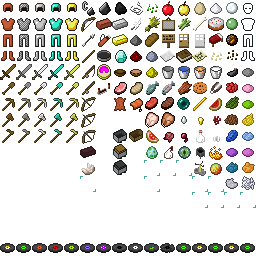
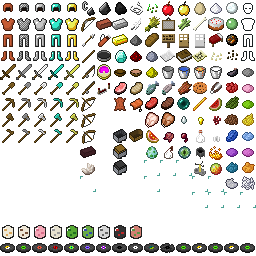
Add creative spawn eggs for all mobs

Changed region(s): [[0.0, 0.875, 0.5625, 0.9375]]

diff --git a/src/world/item/Item.cpp b/src/world/item/Item.cpp
@@ -148,6 +148,16 @@ Item* Item::beef_cooked = NULL;
 Item* Item::chicken_raw = NULL;
 Item* Item::chicken_cooked = NULL;
 
+Item* Item::spawnEggChicken = NULL;
+Item* Item::spawnEggCow = NULL;
+Item* Item::spawnEggPig = NULL;
+Item* Item::spawnEggSheep = NULL;
+Item* Item::spawnEggCreeper = NULL;
+Item* Item::spawnEggZombie = NULL;
+Item* Item::spawnEggSkeleton = NULL;
+Item* Item::spawnEggSpider = NULL;
+Item* Item::spawnEggPigZombie = NULL;
+
 Item* Item::netherbrick = NULL;
 Item* Item::netherQuartz = NULL;
 
@@ -279,6 +289,18 @@ void Item::initItems() {
 	Item::beef_cooked = (new FoodItem(108, 8, /*FoodConstants.FOOD_SATURATION_GOOD,*/ true))->setIcon(10, 6)->setCategory(ItemCategory::FoodArmor)->setDescriptionId("beefCooked");
 	Item::chicken_raw = (new FoodItem(109, 2, /*FoodConstants.FOOD_SATURATION_LOW,*/ true))->setIcon(9, 7)->setCategory(ItemCategory::FoodArmor)->setDescriptionId("chickenRaw");
 	Item::chicken_cooked = (new FoodItem(110, 6, /*FoodConstants.FOOD_SATURATION_NORMAL,*/ true))->setIcon(10, 7)->setCategory(ItemCategory::FoodArmor)->setDescriptionId("chickenCooked");
+
+	// Keep these IDs in the unused item range immediately after the existing
+	// food items. The icon row is reserved for the spawn-egg sprites.
+	Item::spawnEggChicken = (new SpawnEggItem(111, MobTypes::Chicken))->setIcon(224)->setCategory(ItemCategory::Decorations)->setDescriptionId("spawnEggChicken");
+	Item::spawnEggCow = (new SpawnEggItem(112, MobTypes::Cow))->setIcon(225)->setCategory(ItemCategory::Decorations)->setDescriptionId("spawnEggCow");
+	Item::spawnEggPig = (new SpawnEggItem(113, MobTypes::Pig))->setIcon(226)->setCategory(ItemCategory::Decorations)->setDescriptionId("spawnEggPig");
+	Item::spawnEggSheep = (new SpawnEggItem(114, MobTypes::Sheep))->setIcon(227)->setCategory(ItemCategory::Decorations)->setDescriptionId("spawnEggSheep");
+	Item::spawnEggCreeper = (new SpawnEggItem(115, MobTypes::Creeper))->setIcon(228)->setCategory(ItemCategory::Decorations)->setDescriptionId("spawnEggCreeper");
+	Item::spawnEggZombie = (new SpawnEggItem(116, MobTypes::Zombie))->setIcon(229)->setCategory(ItemCategory::Decorations)->setDescriptionId("spawnEggZombie");
+	Item::spawnEggSkeleton = (new SpawnEggItem(117, MobTypes::Skeleton))->setIcon(230)->setCategory(ItemCategory::Decorations)->setDescriptionId("spawnEggSkeleton");
+	Item::spawnEggSpider = (new SpawnEggItem(118, MobTypes::Spider))->setIcon(231)->setCategory(ItemCategory::Decorations)->setDescriptionId("spawnEggSpider");
+	Item::spawnEggPigZombie = (new SpawnEggItem(119, MobTypes::PigZombie))->setIcon(232)->setCategory(ItemCategory::Decorations)->setDescriptionId("spawnEggPigZombie");
 
 	Item::netherbrick = (new Item(149))->setIcon(5, 9)->setDescriptionId("netherbrickItem")->setCategory(ItemCategory::Structures);
 	Item::netherQuartz = (new Item(150))->setIcon(5, 10)->setDescriptionId("netherquartz")->setCategory(ItemCategory::Mechanisms);

diff --git a/src/world/item/SpawnEggItem.h b/src/world/item/SpawnEggItem.h
@@ -1,0 +1,78 @@
+#ifndef NET_MINECRAFT_WORLD_ITEM__SpawnEggItem_H__
+#define NET_MINECRAFT_WORLD_ITEM__SpawnEggItem_H__
+
+#include "Item.h"
+#include "../Facing.h"
+#include "../entity/MobFactory.h"
+#include "../entity/player/Player.h"
+#include "../level/Level.h"
+#include "../level/MobSpawner.h"
+
+// A spawn egg creates the mob associated with the item when it is used on a
+// block.  The item is deliberately data-driven by mob type so every mob that
+// MobFactory can create can be exposed to Creative mode in the same way.
+class SpawnEggItem: public Item
+{
+    typedef Item super;
+public:
+    SpawnEggItem(int id, int mobType)
+    :   super(id),
+        mobType(mobType)
+    {
+        maxStackSize = 64;
+    }
+
+    int getMobType() const {
+        return mobType;
+    }
+
+    bool useOn(ItemInstance* itemInstance, Player* player, Level* level,
+               int x, int y, int z, int face, float clickX, float clickY,
+               float clickZ)
+    {
+        (void)clickX;
+        (void)clickY;
+        (void)clickZ;
+
+        if (!itemInstance || itemInstance->count <= 0 || !player || !level)
+            return false;
+        if (face < Facing::DOWN || face > Facing::EAST)
+            return false;
+
+        // Spawn on the face that was clicked, just like a block placement.
+        const int spawnX = x + Facing::STEP_X[face];
+        const int spawnY = y + Facing::STEP_Y[face];
+        const int spawnZ = z + Facing::STEP_Z[face];
+        if (spawnY < 0 || spawnY >= Level::DEPTH)
+            return false;
+
+        Mob* mob = MobFactory::CreateMob(mobType, level);
+        if (!mob)
+            return false;
+
+        bool spawned = true;
+        if (level->isClientSide) {
+            // The server owns entity creation. The client still reports the
+            // interaction as handled and receives the mob through AddMob.
+            delete mob;
+        } else {
+            spawned = MobSpawner::addMob(level, mob,
+                                         (float)spawnX + 0.5f,
+                                         (float)spawnY,
+                                         (float)spawnZ + 0.5f,
+                                         level->random.nextFloat() * 360.0f,
+                                         0.0f, true);
+            if (!spawned)
+                delete mob;
+        }
+
+        if (spawned && !player->abilities.instabuild)
+            --itemInstance->count;
+        return spawned;
+    }
+
+private:
+    int mobType;
+};
+
+#endif /*NET_MINECRAFT_WORLD_ITEM__SpawnEggItem_H__*/

diff --git a/src/world/entity/player/Inventory.cpp b/src/world/entity/player/Inventory.cpp
@@ -254,6 +254,18 @@ void Inventory::setupDefault() {
 #endif
 		addItem(new ItemInstance(Item::bow));
 		addItem(new ItemInstance(Item::sign));
+
+		// Spawn eggs: keep these in the creative inventory so both the
+		// desktop and touch creative menus expose every MobFactory mob.
+		addItem(new ItemInstance(Item::spawnEggChicken));
+		addItem(new ItemInstance(Item::spawnEggCow));
+		addItem(new ItemInstance(Item::spawnEggPig));
+		addItem(new ItemInstance(Item::spawnEggSheep));
+		addItem(new ItemInstance(Item::spawnEggCreeper));
+		addItem(new ItemInstance(Item::spawnEggZombie));
+		addItem(new ItemInstance(Item::spawnEggSkeleton));
+		addItem(new ItemInstance(Item::spawnEggSpider));
+		addItem(new ItemInstance(Item::spawnEggPigZombie));
 	} else {
 #if defined(WIN32)
 		// Survival

diff --git a/src/world/item/Item.h b/src/world/item/Item.h
@@ -198,6 +198,17 @@ public:
 	static Item* chicken_raw;
 	static Item* chicken_cooked;
 
+	// Spawn eggs for every mob currently registered with MobFactory.
+	static Item* spawnEggChicken;
+	static Item* spawnEggCow;
+	static Item* spawnEggPig;
+	static Item* spawnEggSheep;
+	static Item* spawnEggCreeper;
+	static Item* spawnEggZombie;
+	static Item* spawnEggSkeleton;
+	static Item* spawnEggSpider;
+	static Item* spawnEggPigZombie;
+
 	static Item* netherbrick;
 	static Item* netherQuartz;
 

diff --git a/src/world/item/ItemInclude.h b/src/world/item/ItemInclude.h
@@ -9,6 +9,7 @@
 #include "EggItem.h"
 #include "FlintAndSteelItem.h"
 #include "SnowballItem.h"
+#include "SpawnEggItem.h"
 #include "TilePlanterItem.h"
 
 #include "AuxDataTileItem.h"
